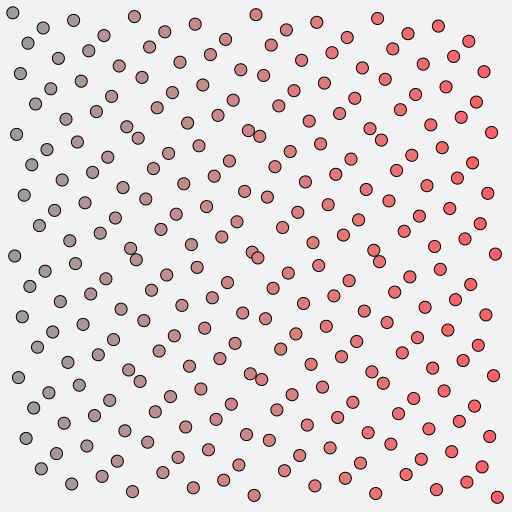
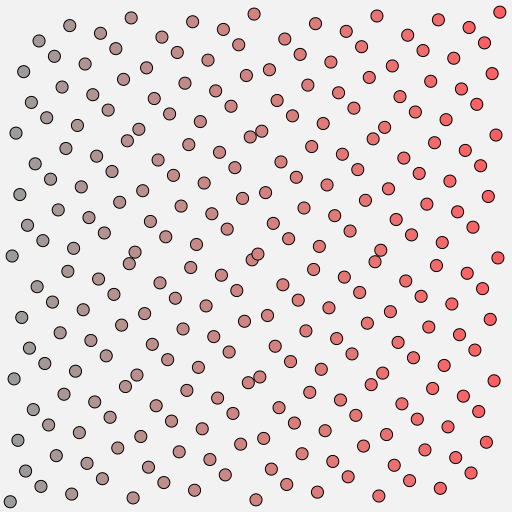
refactor: bring back previous screenshot orientation

diff --git a/index.html b/index.html
@@ -64,8 +64,8 @@
         context.beginPath();
 
         context.arc(
-          halfSize + (x - 0.5) * scale,
-          halfSize + (y - 0.5) * scale,
+          halfSize - (0.5 - x) * scale,
+          halfSize + (0.5 - y) * scale,
           (size / pointsCount) * 3,
           0,
           Math.PI * 2,
